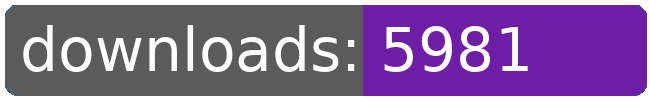
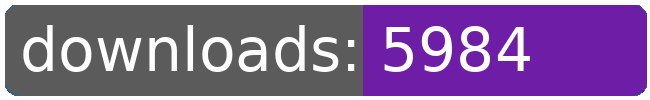
dl log written

Changed region(s): [[0.7692, 0.27, 0.8308, 0.72]]

diff --git a/README.md b/README.md
@@ -21,8 +21,8 @@
 		<td>5907</td>
 		<td>5930</td>
 		<td>5952</td>
-		<td>5981</td>
-		<td>+ 29</td>
+		<td>5984</td>
+		<td>+ 32</td>
 	</tr>
 	<tr>
 		<td>aberrant.kahet.outfitter</td>
@@ -274,8 +274,8 @@
 		<td></td>
 		<td></td>
 		<td></td>
-		<td>83878</td>
-		<td>361</td>
+		<td>83881</td>
+		<td>364</td>
 	</tr>
 </table>
 </sub></sup>
@@ -300,8 +300,8 @@
 		<td>5907</td>
 		<td>5930</td>
 		<td>5952</td>
-		<td>5981</td>
-		<td>+ 29</td>
+		<td>5984</td>
+		<td>+ 32</td>
 	</tr>
 	<tr>
 		<td>aberrant.kahet.outfitter</td>
@@ -553,8 +553,8 @@
 		<td></td>
 		<td></td>
 		<td></td>
-		<td>83878</td>
-		<td>361</td>
+		<td>83881</td>
+		<td>364</td>
 	</tr>
 </table>
 </sub></sup>